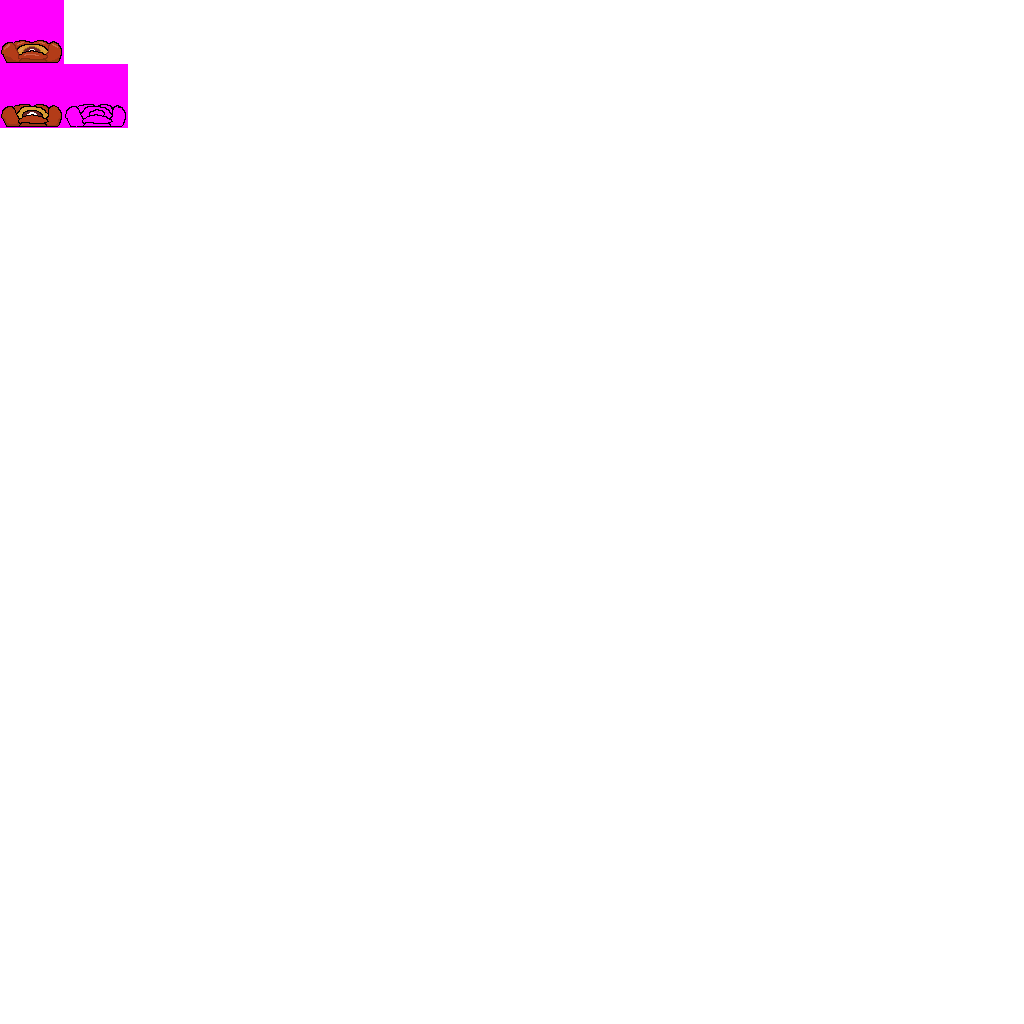
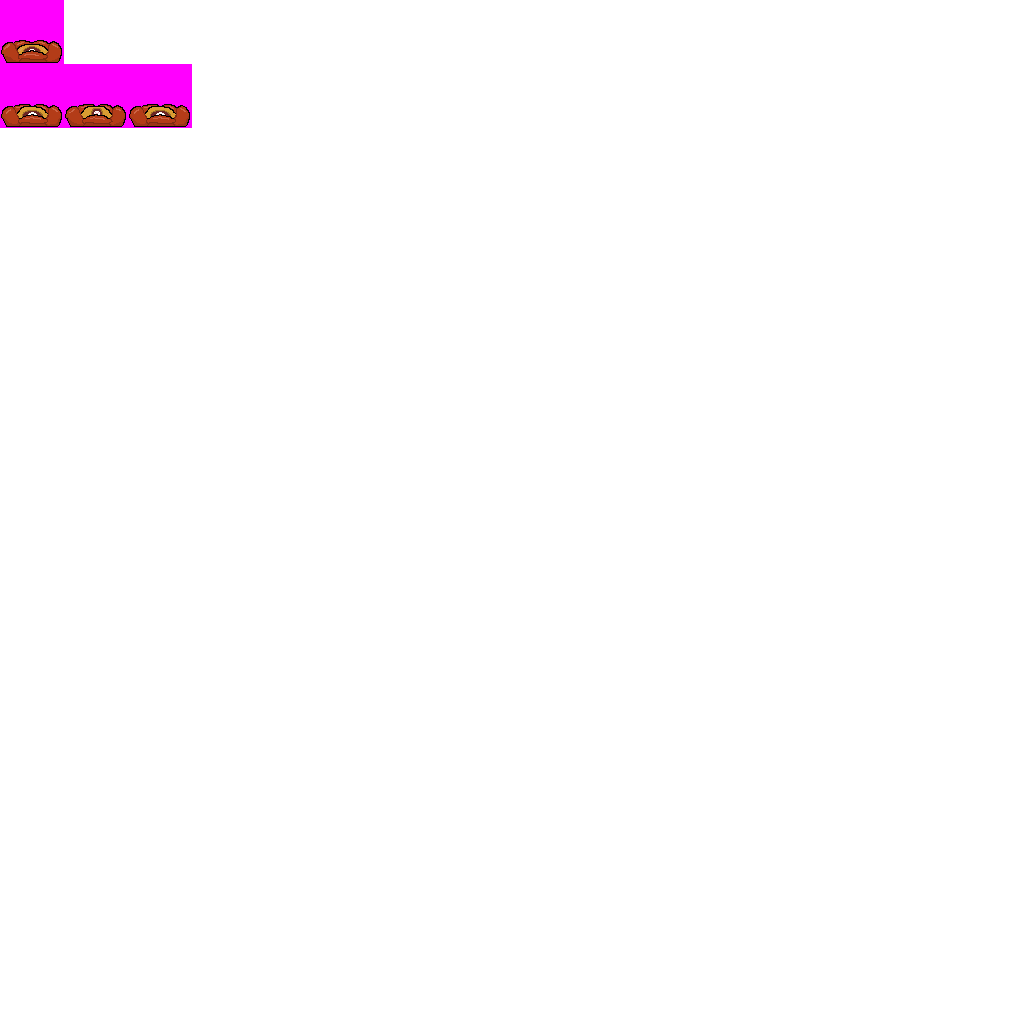
Sprites finished, Working on enemies

Changed region(s): [[0.0625, 0.0625, 0.1875, 0.125]]

diff --git a/src/Enemies/FakeRose.java b/src/Enemies/FakeRose.java
@@ -1,5 +1,6 @@
 package Enemies;
 
+import java.util.HashMap;
 import Builders.FrameBuilder;
 import Engine.ImageLoader;
 import GameObject.Frame;
@@ -19,8 +20,8 @@ public class FakeRose extends Enemy {
     private Direction facingDirection;
     private AirGroundState airGroundState;
 
-    public BuddingFlowerEnemy(Point location, Direction facingDirection) {
-        super(location.x, location.y, new SpriteSheet(ImageLoader.load("FakeRose.png"), 24, 15), "WALK_LEFT");
+    public FakeRoseEnemy(Point location, Direction facingDirection) {
+        super(location.x, location.y, new SpriteSheet(ImageLoader.load("FakeRose.png"), 63, 63), "IDLE_LEFT");
         this.startFacingDirection = facingDirection;
         this.initialize();
     }
@@ -87,5 +88,96 @@ public class FakeRose extends Enemy {
                 airGroundState = AirGroundState.AIR;
             }
         }
+    }
+
+    public HashMap<String, Frame[]> loadAnimations(SpriteSheet spriteSheet) {
+        return new HashMap<String, Frame[]>() {{
+            put("IDLE_LEFT", new Frame[] {
+                    new FrameBuilder(spriteSheet.getSprite(0, 0), 8)
+                            .withScale(2)
+                            .withBounds(10, 0, 8, 63)
+                            .build(),
+                    new FrameBuilder(spriteSheet.getSprite(0, 1), 8)
+                            .withScale(2)
+                            .withBounds(10, 0, 8, 63)
+                            .build(),
+                    new FrameBuilder(spriteSheet.getSprite(0, 2), 8)
+                            .withScale(2)
+                            .withBounds(10, 0, 8, 63)
+                            .build(),
+                    new FrameBuilder(spriteSheet.getSprite(0, 3), 8)
+                            .withScale(2)
+                            .withBounds(10, 0, 8, 63)
+                            .build()
+            });
+
+            put("IDLE_RIGHT", new Frame[] {
+                    new FrameBuilder(spriteSheet.getSprite(0, 0), 8)
+                            .withScale(2)
+                            .withBounds(10, 0, 8, 63)
+                            .withImageEffect(ImageEffect.FLIP_HORIZONTAL)
+                            .build(),
+                    new FrameBuilder(spriteSheet.getSprite(0, 1), 8)
+                            .withScale(2)
+                            .withBounds(10, 0, 8, 63)
+                            .withImageEffect(ImageEffect.FLIP_HORIZONTAL)
+                            .build(),
+                    new FrameBuilder(spriteSheet.getSprite(0, 2), 8)
+                            .withScale(2)
+                            .withBounds(10, 0, 8, 63)
+                            .withImageEffect(ImageEffect.FLIP_HORIZONTAL)
+                            .build(),
+                    new FrameBuilder(spriteSheet.getSprite(0, 3), 8)
+                            .withScale(2)
+                            .withBounds(10, 0, 8, 63)
+                            .withImageEffect(ImageEffect.FLIP_HORIZONTAL)
+                            .build()
+            });
+            put("WALK_LEFT", new Frame[] {
+                    new FrameBuilder(spriteSheet.getSprite(1, 0), 8)
+                            .withScale(2)
+                            .withBounds(10, 0, 8, 63)
+                            .withImageEffect(ImageEffect.FLIP_HORIZONTAL)
+                            .build(),
+                    new FrameBuilder(spriteSheet.getSprite(1, 1), 8)
+                            .withScale(2)
+                            .withBounds(10, 0, 8, 63)
+                            .withImageEffect(ImageEffect.FLIP_HORIZONTAL)
+                            .build(),
+                    new FrameBuilder(spriteSheet.getSprite(1, 2), 8)
+                            .withScale(2)
+                            .withBounds(10, 0, 8, 63)
+                            .withImageEffect(ImageEffect.FLIP_HORIZONTAL)
+                            .build(),
+                    new FrameBuilder(spriteSheet.getSprite(1, 3), 8)
+                            .withScale(2)
+                            .withBounds(10, 0, 8, 63)
+                            .withImageEffect(ImageEffect.FLIP_HORIZONTAL)
+                            .build()
+            });
+
+            put("WALK_RIGHT", new Frame[] {
+                    new FrameBuilder(spriteSheet.getSprite(1, 0), 8)
+                            .withScale(2)
+                            .withBounds(10, 0, 8, 63)
+                            .withImageEffect(ImageEffect.FLIP_HORIZONTAL)
+                            .build(),
+                    new FrameBuilder(spriteSheet.getSprite(1, 1), 8)
+                            .withScale(2)
+                            .withBounds(10, 0, 8, 63)
+                            .withImageEffect(ImageEffect.FLIP_HORIZONTAL)
+                            .build(),
+                    new FrameBuilder(spriteSheet.getSprite(1, 2), 8)
+                            .withScale(2)
+                            .withBounds(10, 0, 8, 63)
+                            .withImageEffect(ImageEffect.FLIP_HORIZONTAL)
+                            .build(),
+                    new FrameBuilder(spriteSheet.getSprite(1, 3), 8)
+                            .withScale(2)
+                            .withBounds(10, 0, 8, 63)
+                            .withImageEffect(ImageEffect.FLIP_HORIZONTAL)
+                            .build()
+            });
+        }};
     }
 }

diff --git a/src/Enemies/SporeFlower.java b/src/Enemies/SporeFlower.java
@@ -19,7 +19,7 @@ public class SporeFlower extends Enemy {
     private Direction facingDirection;
     private AirGroundState airGroundState;
 
-    public BuddingFlowerEnemy(Point location, Direction facingDirection) {
+    public SporeFlowerEnemy(Point location, Direction facingDirection) {
         super(location.x, location.y, new SpriteSheet(ImageLoader.load("SporeFlower.png"), 24, 15), "WALK_LEFT");
         this.startFacingDirection = facingDirection;
         this.initialize();

diff --git a/src/Enemies/EvilFlower.java b/src/Enemies/EvilFlower.java
@@ -21,7 +21,7 @@ public class EvilFlower extends Enemy {
     private Direction facingDirection;
     private AirGroundState airGroundState;
 
-    public BuddingFlowerEnemy(Point location, Direction facingDirection) {
+    public EvilFlowerEnemy(Point location, Direction facingDirection) {
         super(location.x, location.y, new SpriteSheet(ImageLoader.load("EvilFlower.png"), 24, 15), "WALK_LEFT");
         this.startFacingDirection = facingDirection;
         this.initialize();

diff --git a/src/Enemies/BuddingFlower.java b/src/Enemies/BuddingFlower.java
@@ -15,8 +15,7 @@ import Utils.Point;
 import java.util.HashMap;
 
 // This class is for the black bug enemy
-// enemy behaves like a Mario goomba -- walks forward until it hits a solid map tile, and then turns around
-// if it ends up in the air from walking off a cliff, it will fall down until it hits the ground again, and then will continue walking
+
 public class BuddingFlower extends Enemy {
     private float gravity = .5f;
     private float movementSpeed = .5f;
